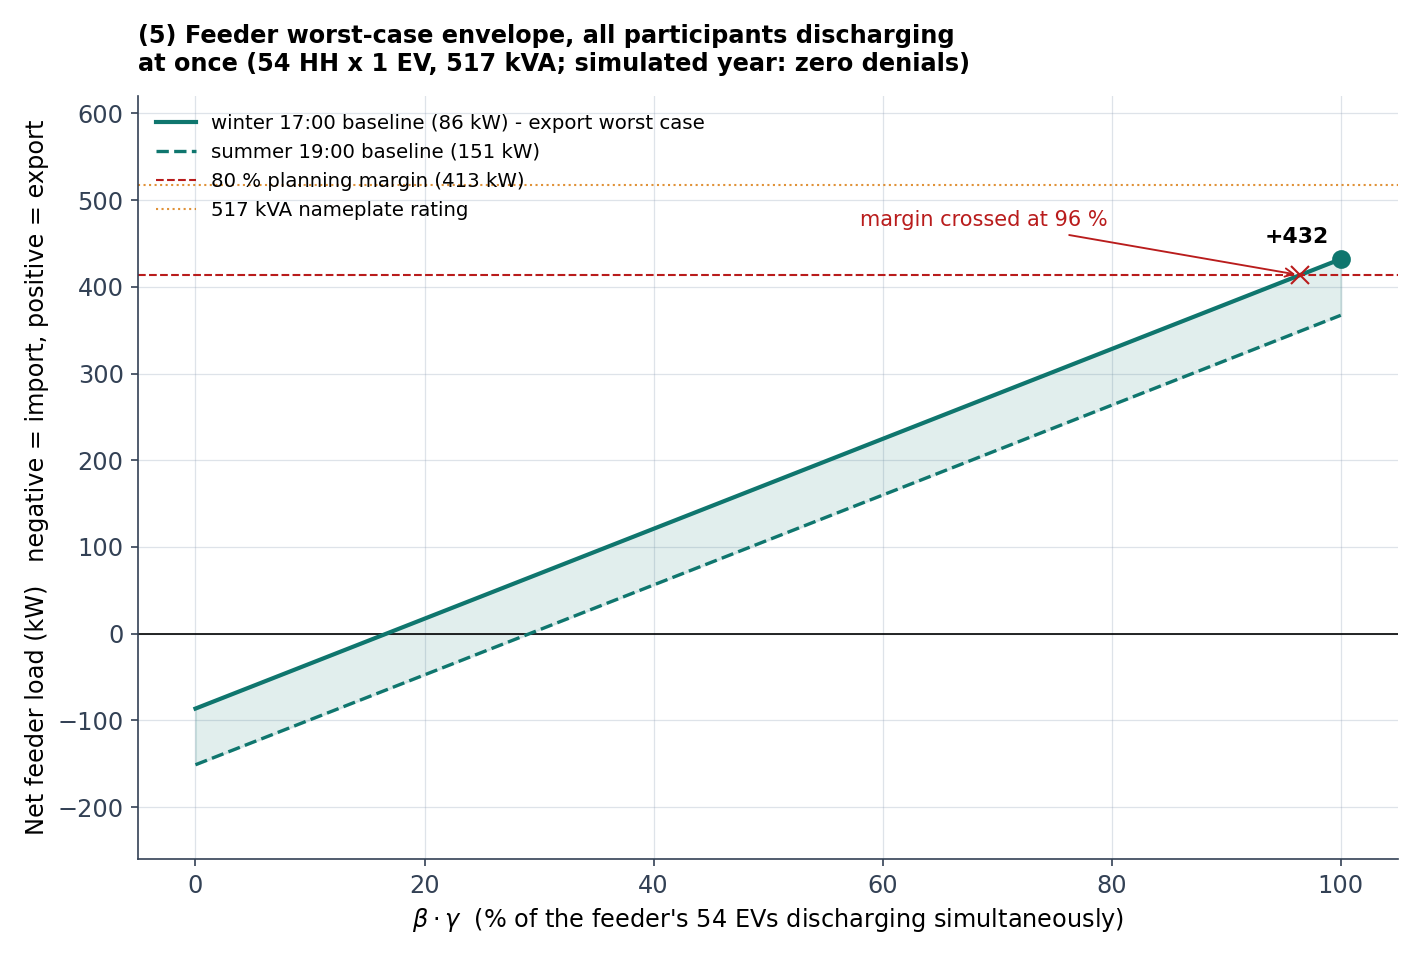
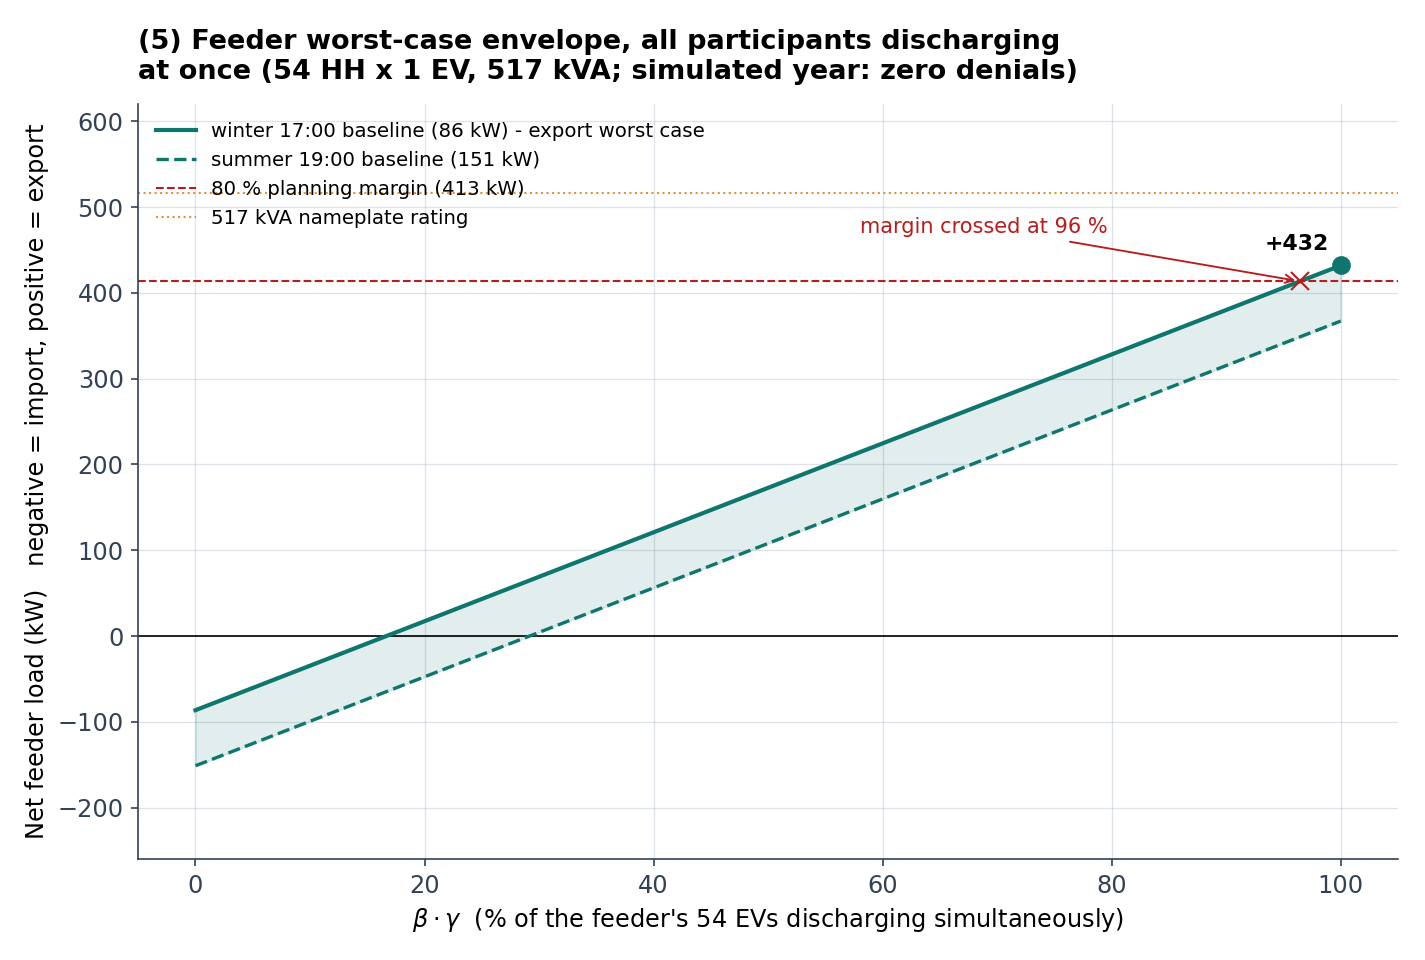
git add -A git commit -m "Submission round: Fig 1.2 EMS-services/fees arrows corrected and final three-tier layout moved into script, Fig 3.4 legend below plot, UK-routes table rendered as PNG (w15f)" git push origin

diff --git a/src/plot_w15_intro_diagrams.py b/src/plot_w15_intro_diagrams.py
@@ -109,45 +109,64 @@ def _arr(ax, p0, p1, color, style="-", lw=2.6, rad=0.0):
 
 
 def fig_actors() -> None:
-    fig, ax = plt.subplots(figsize=(12, 7.0))
-    ax.set_xlim(0, 12); ax.set_ylim(0, 8.4); ax.axis("off")
+    """Three-tier layout: owner / market layer (supplier + aggregator) / grid."""
+    fig, ax = plt.subplots(figsize=(11.5, 8.4))
+    ax.set_xlim(0, 12); ax.set_ylim(0, 10.3); ax.axis("off")
 
-    # layout: supplier left, owner centre, aggregator right, grid bottom-centre
-    _box(ax, 0.3, 5.3, 3.0, 1.9, "Electricity\nsupplier", "tariff, billing,\nmarket access", PALETTE["neutral"])
-    _box(ax, 4.5, 5.3, 3.0, 1.9, "EV owner", "provides the battery,\nplugs in at home", PALETTE["uk"])
-    _box(ax, 8.7, 5.3, 3.0, 1.9, "Aggregator", "recruits owners,\ncontrols dispatch", PALETTE["israel"])
-    _box(ax, 4.5, 0.6, 3.0, 1.9, "Grid", "carries the energy;\navoided peak cost\nfunds the chain", PALETTE["cost"])
+    def vbox(x, y, w, h, label, sub, color, fs=14):
+        ax.add_patch(FancyBboxPatch((x, y), w, h, boxstyle="round,pad=0.06,rounding_size=0.12",
+                                    facecolor=color, edgecolor="none", zorder=3))
+        ax.text(x+w/2, y+h*0.63, label, ha="center", va="center", fontsize=fs,
+                fontweight="bold", color="white", zorder=4)
+        if sub:
+            ax.text(x+w/2, y+h*0.26, sub, ha="center", va="center", fontsize=10,
+                    color="white", alpha=0.93, zorder=4)
 
-    # supplier <-> owner (billing relationship)
-    _arr(ax, (4.4, 6.75), (3.4, 6.75), PALETTE["amber"], style="--")
-    ax.text(3.9, 7.0, "pays the bill", ha="center", fontsize=11, fontweight="bold", color=PALETTE["amber"])
-    _arr(ax, (3.4, 5.75), (4.4, 5.75), PALETTE["amber"], style="--")
-    ax.text(3.9, 5.28, "bills import,\nsettles export", ha="center", fontsize=11,
-            fontweight="bold", color=PALETTE["amber"], va="top")
+    def varr(p0, p1, color, style="-", lw=2.6, z=2, ms=24):
+        ax.add_patch(FancyArrowPatch(p0, p1, arrowstyle="-|>", mutation_scale=ms,
+                                     linewidth=lw, linestyle=style, color=color, zorder=z))
 
-    # aggregator <-> owner
-    _arr(ax, (8.6, 6.75), (7.6, 6.75), PALETTE["amber"], style="--")
-    ax.text(8.1, 7.0, "revenue share", ha="center", fontsize=11, fontweight="bold", color=PALETTE["amber"])
-    _arr(ax, (8.6, 5.75), (7.6, 5.75), PALETTE["israel"])
-    ax.text(8.1, 5.28, "dispatch\ncommands", ha="center", fontsize=11,
-            fontweight="bold", color=PALETTE["israel"], va="top")
+    vbox(3.6, 8.2, 4.8, 1.75, "EV owner", "provides the battery,\nplugs in at home", PALETTE["uk"])
+    ax.add_patch(FancyBboxPatch((0.75, 3.7), 10.5, 3.1, boxstyle="round,pad=0.08,rounding_size=0.18",
+                                facecolor="#f1f5f9", edgecolor="#94a3b8", linewidth=1.6, zorder=1))
+    vbox(1.25, 4.75, 3.8, 1.75, "Electricity supplier", "tariff, billing,\nsettlement of export", PALETTE["neutral"], fs=13)
+    vbox(6.95, 4.75, 3.8, 1.75, "Aggregator", "EMS services: pooling,\ndispatch, grid products", PALETTE["israel"], fs=13)
+    ax.text(6.0, 4.12, "the market layer: one company, or a supplier contracting an aggregator",
+            ha="center", fontsize=11, style="italic", color="#475569", zorder=4)
+    vbox(3.6, 0.5, 4.8, 1.75, "Grid and system\noperator", "wires, balancing,\navoided peak cost", PALETTE["cost"])
 
-    # owner <-> grid (electricity, both directions)
-    _arr(ax, (5.6, 5.2), (5.6, 2.6), PALETTE["uk"], lw=3.2)
-    ax.text(5.38, 3.9, "discharge\nat peak", ha="right", fontsize=11, fontweight="bold", color=PALETTE["uk"])
-    _arr(ax, (6.4, 2.6), (6.4, 5.2), PALETTE["israel"], lw=3.2)
-    ax.text(6.62, 3.9, "charge\noff-peak", ha="left", fontsize=11, fontweight="bold", color=PALETTE["israel"])
+    # aggregator -> supplier: EMS services; supplier -> aggregator: fees
+    varr((6.85, 5.62), (5.15, 5.62), "#475569", style="--", lw=1.8, z=1, ms=16)
+    ax.text(6.0, 5.8, "EMS services", ha="center", fontsize=9.5, color="#475569", zorder=1)
+    varr((5.15, 5.05), (6.85, 5.05), "#475569", style="--", lw=1.8, z=1, ms=16)
+    ax.text(6.0, 4.82, "fees", ha="center", fontsize=9.5, color="#475569", zorder=1)
 
-    # aggregator sells pooled flexibility to the supplier (arc over the top)
-    _arr(ax, (10.2, 7.35), (1.8, 7.35), PALETTE["amber"], style="--", rad=0.16)
-    ax.text(6.0, 8.33, "sells the pooled flexibility of many vehicles",
-            ha="center", fontsize=11.5, fontweight="bold", color=PALETTE["amber"])
+    varr((4.15, 8.1), (4.15, 6.9), PALETTE["amber"], style="--")
+    varr((4.75, 6.9), (4.75, 8.1), PALETTE["amber"], style="--")
+    ax.text(3.95, 7.62, "pays the bill", ha="right", fontsize=10.5, fontweight="bold", color=PALETTE["amber"])
+    ax.text(3.95, 7.08, "export credit,\nrevenue share", ha="right", fontsize=10.5,
+            fontweight="bold", color=PALETTE["amber"])
 
-    fig.text(0.5, 0.03, "Solid arrows carry electricity and control; dashed arrows carry money.  "
-             "Every payment in the chain is funded from the consumer's bill.",
-             ha="center", fontsize=11, style="italic", color=PALETTE["neutral"])
+    varr((7.9, 6.9), (7.9, 8.1), PALETTE["israel"])
+    ax.text(8.1, 7.5, "dispatch commands", ha="left", fontsize=11, fontweight="bold", color=PALETTE["israel"])
+
+    varr((4.4, 3.6), (4.4, 2.35), PALETTE["amber"], style="--")
+    ax.text(4.2, 3.0, "network charges,\nwholesale purchases", ha="right", fontsize=10.5,
+            fontweight="bold", color=PALETTE["amber"])
+    varr((7.6, 2.35), (7.6, 3.6), PALETTE["amber"], style="--")
+    ax.text(7.8, 3.0, "payment for flexibility\nand balancing services", ha="left", fontsize=10.5,
+            fontweight="bold", color=PALETTE["amber"])
+
+    varr((5.62, 8.1), (5.62, 2.4), PALETTE["uk"], lw=3.4, z=2)
+    varr((6.38, 2.4), (6.38, 8.1), "#0a8f66", lw=3.4, z=2)
+    ax.text(5.36, 7.75, "discharge\nat peak", ha="right", fontsize=10.5, fontweight="bold", color=PALETTE["uk"])
+    ax.text(6.56, 7.75, "charge\noff-peak", ha="left", fontsize=10.5, fontweight="bold", color="#0a8f66")
+
+    fig.text(0.5, 0.02, "Dashed arrows carry money, solid arrows carry electricity and control.  "
+             "No money passes between the owner and the grid directly.",
+             ha="center", fontsize=10.5, style="italic", color="#475569")
     ax.set_title("The residential V2G value chain", fontsize=15)
-    fig.tight_layout(rect=(0, 0.05, 1, 1))
+    fig.tight_layout(rect=(0, 0.035, 1, 1))
     fig.savefig(OUT / "w15b_actors.png")
     print("Saved", OUT / "w15b_actors.png")
 

diff --git a/src/plot_w12t_sensitivity_split.py b/src/plot_w12t_sensitivity_split.py
@@ -33,7 +33,7 @@ def panel_capex(ax):
                label="10-yr battery life")
     ax.set_ylabel("V2G premium payback (years)", fontsize=11.5)
     ax.set_title("(1) Bidirectional charger CAPEX, 2026 vs 2028",
-                 fontsize=12.5, fontweight="bold")
+                 fontsize=14.0, fontweight="bold")
     ax.set_ylim(0, 12)
     ax.legend(fontsize=10, loc="upper right")
     ax.grid(True, axis="y", alpha=0.3)
@@ -55,7 +55,7 @@ def panel_uk_rate(ax):
     ax.set_xlabel("Power Pack export rate (p/kWh)", fontsize=11.5)
     ax.set_ylabel("Payback (years)", fontsize=11.5)
     ax.set_title("(2) UK Power Pack rate sweep (net of Go recharge)",
-                 fontsize=12.5, fontweight="bold")
+                 fontsize=14.0, fontweight="bold")
     ax.legend(fontsize=10, loc="upper right")
     ax.grid(True, alpha=0.3)
 
@@ -75,7 +75,7 @@ def panel_taoz(ax):
     ax.set_ylabel("Annual GROSS V2G revenue (NIS/EV/yr)", fontsize=11.5)
     ax.set_title("(3) Israel TAOZ peak/off-peak spread\n"
                  "annual gross (subtract ~1,940 NIS/yr CAPEX amortisation for net)",
-                 fontsize=11.5, fontweight="bold")
+                 fontsize=13.0, fontweight="bold")
     ax.legend(fontsize=10, loc="upper left")
     ax.grid(True, axis="y", alpha=0.3)
 
@@ -95,7 +95,7 @@ def panel_plugin(ax):
     ax.set_xlabel("Plug-in probability (% of home evenings)", fontsize=11.5)
     ax.set_ylabel("Daily Charger V2G kWh/yr", fontsize=11.5)
     ax.set_title("(4) Plug-in probability robustness (3-seed avg, 90 % cap)",
-                 fontsize=12.5, fontweight="bold")
+                 fontsize=14.0, fontweight="bold")
     ax.legend(fontsize=10, loc="lower right")
     ax.grid(True, alpha=0.3)
 
@@ -116,7 +116,7 @@ def panel_return_home(ax):
     ax.set_xlabel("Arrival home hour", fontsize=11.5)
     ax.set_ylabel("Daily Charger V2G kWh/yr", fontsize=11.5)
     ax.set_title("(6) Return-home hour sensitivity (3-seed avg, 90 % cap)",
-                 fontsize=12.5, fontweight="bold")
+                 fontsize=14.0, fontweight="bold")
     ax.legend(fontsize=10, loc="lower left")
     ax.grid(True, alpha=0.3)
     ax.set_ylim(3500, 6500)
@@ -147,7 +147,7 @@ def panel_drive_days(ax):
     ax.set_ylabel("Annual V2G kWh / car", fontsize=11.5)
     ax.set_title("(7) Drive-days sensitivity (3-seed avg, 90 % cap)\n"
                  "matched 87 % plug-in; curves converge at 0 d/wk",
-                 fontsize=11.5, fontweight="bold")
+                 fontsize=13.0, fontweight="bold")
     ax.set_xticks(drive_days)
     ax.legend(fontsize=10, loc="lower left")
     ax.grid(True, alpha=0.3)
@@ -190,7 +190,7 @@ def panel_grid(ax):
                   fontsize=11.5)
     ax.set_title("(5) Feeder worst-case envelope, all participants discharging\n"
                  "at once (54 HH x 1 EV, 517 kVA; simulated year: zero denials)",
-                 fontsize=11.5, fontweight="bold")
+                 fontsize=13.0, fontweight="bold")
     ax.legend(fontsize=9.5, loc="upper left")
     ax.grid(True, alpha=0.3)
     ax.set_ylim(-260, 620)

diff --git a/src/plot_uk_pricing.py b/src/plot_uk_pricing.py
@@ -26,7 +26,7 @@ def main() -> None:
     octgo = np.array([octopus_go_rate_at_hour(h) for h in hours]) * 100
     export = np.array([octopus_powerloop_export_at_hour(h) for h in hours]) * 100
 
-    fig, ax = plt.subplots(figsize=(14, 6))
+    fig, ax = plt.subplots(figsize=(14, 6.8))
 
     # V0 - flat Ofgem
     ax.plot(hours, ofgem, color="#9ca3af", linewidth=3,
@@ -62,7 +62,7 @@ def main() -> None:
     ax.set_xticklabels([f"{h:02d}:00" for h in range(0, 24, 2)])
     ax.set_title("UK three-tariff structure for the V2G model  (24-hour view)",
                  fontsize=14, fontweight="bold")
-    ax.legend(loc="upper right", fontsize=11.5, framealpha=0.95)
+    ax.legend(loc="upper center", bbox_to_anchor=(0.5, -0.12), ncol=3, fontsize=11.5, framealpha=0.95)
     ax.grid(True, alpha=0.3)
 
     fig.tight_layout()

diff --git a/src/plot_w11b_aggregator_per_ev.py b/src/plot_w11b_aggregator_per_ev.py
@@ -1,7 +1,7 @@
 """Per-EV aggregator revenue chart.
 
 The alpha-beta heatmap shows UK total fleet aggregator revenue >>
-Israeli simply because the UK fleet is 10x bigger.  This chart
+Israeli because the UK fleet is 10x bigger.  This chart
 normalises out the fleet size effect and shows the per-V2G-EV
 aggregator revenue directly, which is the citable unit-economics
 number.
